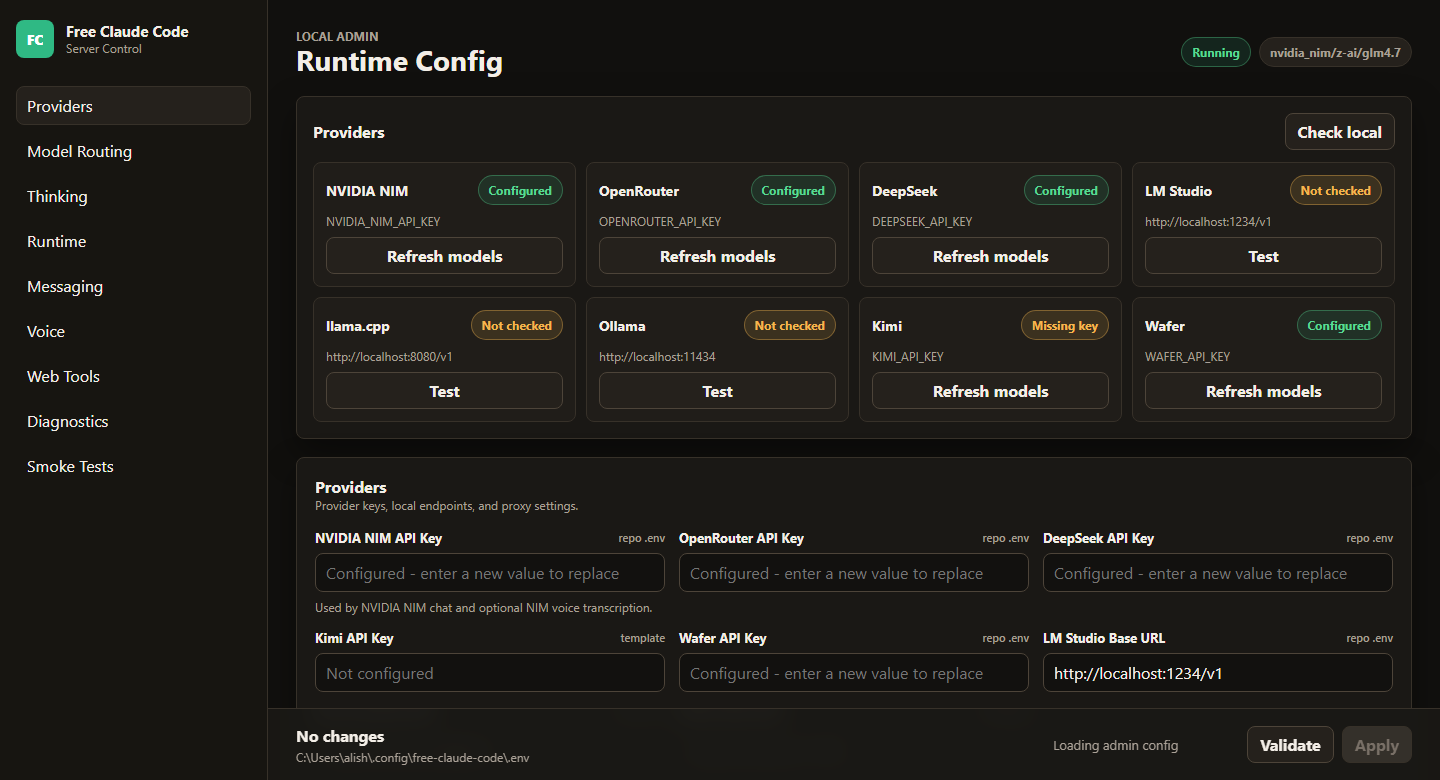
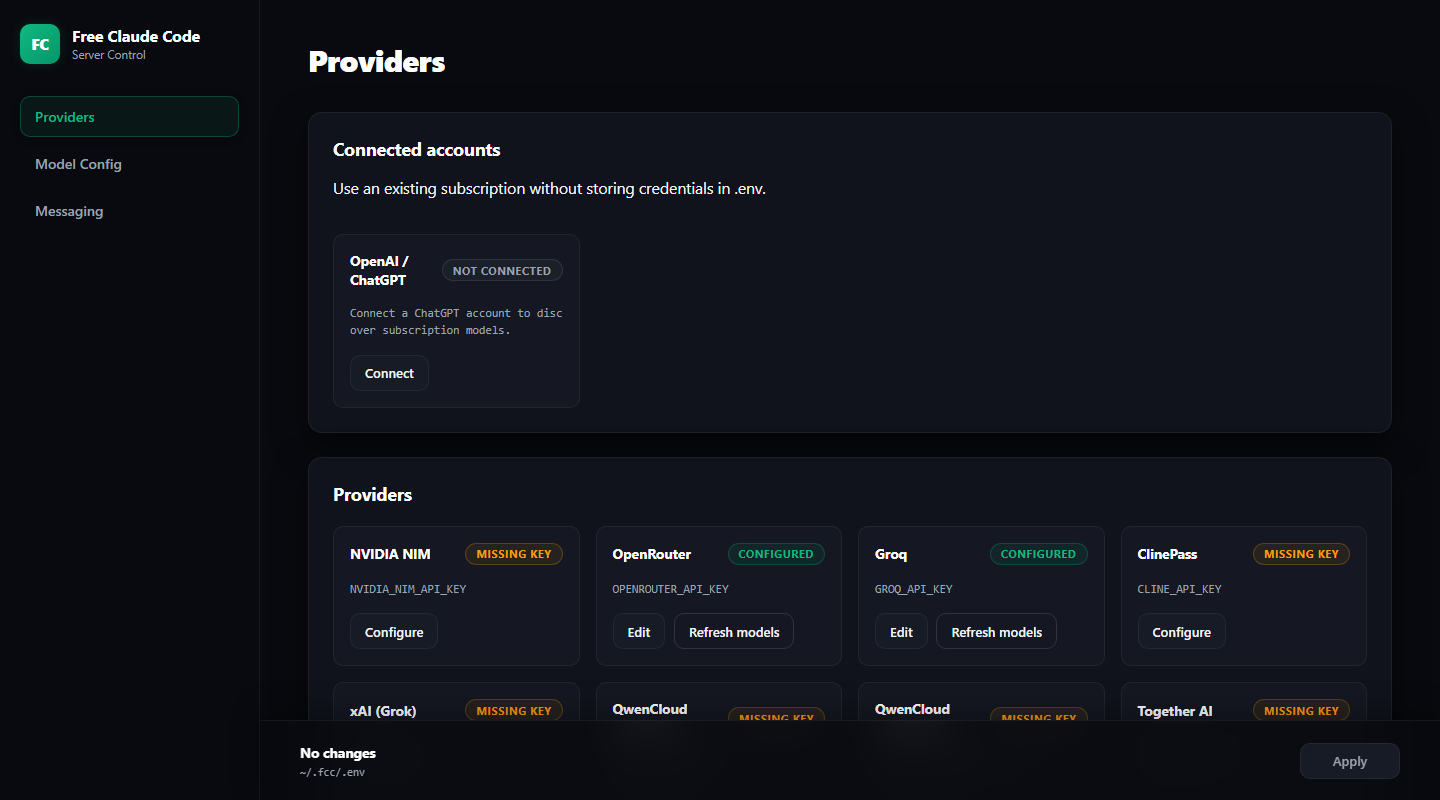
Make Apply the single Admin configuration action (#1595)
## Problem

Admin settings exposed separate Validate and Apply actions even though
Apply independently validates the prospective configuration. The extra
step added ceremony and an unused preview request.

## Changes

- Make Apply the sole configuration action while preserving
validate-before-write behavior and existing footer errors.
- Remove the unused validation route, client request, and persistence
wrapper.
- Move validation coverage onto the real Apply path and add a rendered
Playwright regression for invalid edits.
- Update user and architecture documentation and bump the patch version
to 5.15.6.

<!-- greptile_comment -->

<details open><summary><h3>Greptile Summary</h3></summary>

The Admin configuration screen now uses Apply as its single action while
retaining validation before configuration is saved. The rendered
workflow confirms that invalid edits remain visible for correction and
do not overwrite the managed configuration.
</details>

<h3>Confidence Score: 5/5</h3>

Safe to merge based on the exercised Admin Apply workflow.

No blocking failure remains. A rendered browser check confirmed that an
invalid timeout is rejected, preserves the entered value and unsaved
state, and leaves the managed configuration unchanged.

<details><summary><h3><a href="https://www.greptile.com/trex"><img
alt="T-Rex"
src="https://greptile-static-assets.s3.amazonaws.com/trex/trex_green.svg"
height="20" align="absmiddle"></a> T-Rex Logs</h3></summary>

**What T-Rex did**
[…]

diff --git a/src/free_claude_code/api/admin_static/admin.js b/src/free_claude_code/api/admin_static/admin.js
@@ -93,7 +93,6 @@ async function load() {
   byId("configPath").textContent = config.paths.managed;
   await refreshConnectedAccounts();
   await hydrateModelOptions();
-  await validate(false);
   await refreshLocalStatus();
   updateDirtyState();
   showMessage("");
@@ -1022,32 +1021,13 @@ function updateDirtyState() {
   byId("applyButton").disabled = count === 0;
 }
 
-async function validate(showResult = true) {
-  const result = await api("/admin/api/config/validate", {
-    method: "POST",
-    body: JSON.stringify({ values: changedValues() }),
-  });
-  if (showResult) {
-    showValidationResult(result);
-  }
-  return result;
-}
-
-function showValidationResult(result) {
-  if (result.valid) {
-    showMessage("Config shape is valid", "ok");
-  } else {
-    showMessage(result.errors.join("; "), "error");
-  }
-}
-
 async function apply() {
   const result = await api("/admin/api/config/apply", {
     method: "POST",
     body: JSON.stringify({ values: changedValues() }),
   });
   if (!result.applied) {
-    showValidationResult(result);
+    showMessage(result.errors.join("; "), "error");
     return;
   }
   const restart = result.restart || {};
@@ -1195,7 +1175,6 @@ function showMessage(message, kind = "") {
   area.className = `message-area ${kind}`.trim();
 }
 
-byId("validateButton").addEventListener("click", () => validate(true));
 byId("applyButton").addEventListener("click", apply);
 document.addEventListener("pointerdown", (event) => {
   state.modelComboboxes.forEach((combobox) => {

diff --git a/src/free_claude_code/api/admin_static/index.html b/src/free_claude_code/api/admin_static/index.html
@@ -81,7 +81,6 @@
         </div>
         <div id="messageArea" class="message-area"></div>
         <div class="action-buttons">
-          <button id="validateButton" class="secondary-button" type="button">Validate</button>
           <button id="applyButton" class="primary-button" type="button" disabled>Apply</button>
         </div>
       </footer>

diff --git a/tests/api/test_admin.py b/tests/api/test_admin.py
@@ -129,11 +129,11 @@ def test_admin_http_errors_are_never_cached(
     assert response.headers["cache-control"] == "no-store"
 
 
-def test_admin_validation_errors_are_never_cached(monkeypatch, tmp_path):
+def test_admin_apply_payload_validation_errors_are_never_cached(monkeypatch, tmp_path):
     _set_home(monkeypatch, tmp_path)
 
     response = _local_client(create_test_app()).post(
-        "/admin/api/config/validate",
+        "/admin/api/config/apply",
         content="{",
         headers={"Content-Type": "application/json"},
     )
@@ -802,41 +802,43 @@ def test_admin_apply_masked_or_blank_secret_is_unchanged(
     assert "OPENROUTER_API_KEY=original-secret" in env_file.read_text(encoding="utf-8")
 
 
-def test_admin_validate_rejects_bad_model_shape(monkeypatch, tmp_path):
+def test_admin_apply_rejects_bad_model_shape(monkeypatch, tmp_path):
     _set_home(monkeypatch, tmp_path)
     _clear_process_config(monkeypatch)
     app = create_test_app()
 
     response = _local_client(app).post(
-        "/admin/api/config/validate",
+        "/admin/api/config/apply",
         json={"values": {"MODEL": "missing-provider-prefix"}},
     )
 
     assert response.status_code == 200
     body = response.json()
+    assert body["applied"] is False
     assert body["valid"] is False
     assert any("provider type" in error for error in body["errors"])
 
 
-def test_admin_validate_rejects_duplicate_model_fallbacks(monkeypatch, tmp_path):
+def test_admin_apply_rejects_duplicate_model_fallbacks(monkeypatch, tmp_path):
     _set_home(monkeypatch, tmp_path)
     _clear_process_config(monkeypatch)
     app = create_test_app()
     duplicate = "groq/vendor/model,groq/vendor/model"
 
     response = _local_client(app).post(
-        "/admin/api/config/validate",
+        "/admin/api/config/apply",
         json={"values": {"MODEL_FALLBACKS": duplicate}},
     )
 
     assert response.status_code == 200
     body = response.json()
+    assert body["applied"] is False
     assert body["valid"] is False
     assert any("duplicate" in error.lower() for error in body["errors"])
 
 
 @pytest.mark.parametrize("proxy_key", _catalog_proxy_env_keys())
-def test_admin_validate_rejects_invalid_catalog_provider_proxy(
+def test_admin_apply_rejects_invalid_catalog_provider_proxy(
     monkeypatch,
     tmp_path,
     proxy_key,
@@ -846,12 +848,13 @@ def test_admin_validate_rejects_invalid_catalog_provider_proxy(
     invalid_proxy = "not-a-proxy://user:leaked-secret@proxy.example:8080"
 
     response = _local_client(create_test_app()).post(
-        "/admin/api/config/validate",
+        "/admin/api/config/apply",
         json={"values": {proxy_key: invalid_proxy}},
     )
 
     assert response.status_code == 200
     body = response.json()
+    assert body["applied"] is False
     assert body["valid"] is False
     assert body["errors"] == [
         (
@@ -873,16 +876,17 @@ def test_admin_validate_rejects_invalid_catalog_provider_proxy(
         "  http://127.0.0.1:8080  ",
     ),
 )
-def test_admin_validate_accepts_httpx_provider_proxy(monkeypatch, tmp_path, proxy):
+def test_admin_apply_accepts_httpx_provider_proxy(monkeypatch, tmp_path, proxy):
     _set_home(monkeypatch, tmp_path)
     _clear_process_config(monkeypatch)
 
     response = _local_client(create_test_app()).post(
-        "/admin/api/config/validate",
+        "/admin/api/config/apply",
         json={"values": {"OPENAI_PROXY": proxy}},
     )
 
     assert response.status_code == 200
+    assert response.json()["applied"] is True
     assert response.json()["valid"] is True
 
 
@@ -896,17 +900,18 @@ def test_admin_validate_accepts_httpx_provider_proxy(monkeypatch, tmp_path, prox
         "http://proxy.example:notaport",
     ),
 )
-def test_admin_validate_rejects_unusable_provider_proxy(monkeypatch, tmp_path, proxy):
+def test_admin_apply_rejects_unusable_provider_proxy(monkeypatch, tmp_path, proxy):
     _set_home(monkeypatch, tmp_path)
     _clear_process_config(monkeypatch)
 
     response = _local_client(create_test_app()).post(
-        "/admin/api/config/validate",
+        "/admin/api/config/apply",
         json={"values": {"OPENAI_PROXY": proxy}},
     )
 
     assert response.status_code == 200
     body = response.json()
+    assert body["applied"] is False
     assert body["valid"] is False
     assert len(body["errors"]) == 1
     assert body["errors"][0].startswith("OPENAI_PROXY: must be a proxy URL")
@@ -983,7 +988,7 @@ def test_admin_apply_validates_retained_proxy_and_allows_removal(
 
 
 @pytest.mark.parametrize("submitted", (MASKED_SECRET, "", "   "))
-def test_admin_validate_preserves_valid_stored_proxy_secret(
+def test_admin_apply_preserves_valid_stored_proxy_secret(
     monkeypatch,
     tmp_path,
     submitted,
@@ -998,12 +1003,13 @@ def test_admin_validate_preserves_valid_stored_proxy_secret(
     )
 
     response = _local_client(create_test_app()).post(
-        "/admin/api/config/validate",
+        "/admin/api/config/apply",
         json={"values": {"OPENAI_PROXY": submitted}},
     )
 
     assert response.status_code == 200
     body = response.json()
+    assert body["applied"] is True
     assert body["valid"] is True
     assert "OPENAI_PROXY=********" in body["env_preview"]
     assert "password" not in response.text

diff --git a/e2e/test_admin_apply.py b/e2e/test_admin_apply.py
@@ -1,0 +1,41 @@
+"""Rendered one-step Admin configuration workflow regressions."""
+
+from playwright.sync_api import Page, expect
+
+
+def test_apply_is_the_only_config_action_and_retains_invalid_edits(
+    page: Page,
+    admin_base_url: str,
+) -> None:
+    config_mutations: list[tuple[str, str]] = []
+
+    def record_config_mutation(method: str, url: str) -> None:
+        if "/admin/api/config/" in url:
+            config_mutations.append((method, url.rsplit("/", maxsplit=1)[-1]))
+
+    page.on(
+        "request",
+        lambda request: record_config_mutation(request.method, request.url),
+    )
+    page.emulate_media(reduced_motion="reduce")
+    page.goto(f"{admin_base_url}/admin")
+    expect(page.locator("#messageArea")).to_have_text("")
+
+    expect(page.get_by_role("button", name="Validate", exact=True)).to_have_count(0)
+    apply_button = page.get_by_role("button", name="Apply", exact=True)
+    expect(apply_button).to_be_disabled()
+
+    runtime_section = page.locator("#section-runtime")
+    runtime_section.get_by_role("button", name="Show advanced", exact=True).click()
+    timeout_input = runtime_section.locator("#field-PROVIDER_PROGRESS_TIMEOUT")
+    timeout_input.fill("0")
+    expect(page.locator("#dirtyState")).to_have_text("1 unsaved change")
+    expect(apply_button).to_be_enabled()
+
+    apply_button.click()
+
+    expect(page.locator("#messageArea")).to_contain_text("PROVIDER_PROGRESS_TIMEOUT")
+    expect(timeout_input).to_have_value("0")
+    expect(page.locator("#dirtyState")).to_have_text("1 unsaved change")
+    expect(apply_button).to_be_enabled()
+    assert config_mutations == [("POST", "apply")]

diff --git a/src/free_claude_code/api/admin_routes.py b/src/free_claude_code/api/admin_routes.py
@@ -16,7 +16,6 @@ from free_claude_code.application.connected_accounts import (
 )
 from free_claude_code.application.model_metadata import ProviderModelRefreshResult
 from free_claude_code.config.admin.manifest import FIELD_BY_KEY
-from free_claude_code.config.admin.persistence import validate_updates
 from free_claude_code.config.admin.values import load_config_response, load_value_state
 from free_claude_code.config.model_refs import configured_chat_model_refs
 from free_claude_code.config.provider_catalog import (
@@ -109,12 +108,6 @@ async def admin_asset(filename: str, request: Request):
 async def get_admin_config(request: Request):
     require_loopback_admin(request)
     return load_config_response()
-
-
-@router.post("/admin/api/config/validate")
-async def validate_admin_config(payload: AdminConfigPayload, request: Request):
-    require_loopback_admin(request)
-    return validate_updates(_filtered_values(payload.values))
 
 
 @router.post("/admin/api/config/apply")

diff --git a/src/free_claude_code/config/admin/persistence.py b/src/free_claude_code/config/admin/persistence.py
@@ -105,12 +105,6 @@ def target_values_with_updates(
     return values
 
 
-def validate_updates(updates: Mapping[str, ConfigInputValue]) -> JsonObject:
-    """Validate partial Admin updates and return a masked sparse preview."""
-
-    return prepare_admin_update(updates).validation_response()
-
-
 def changed_pending_fields(
     updates: Mapping[str, ConfigInputValue],
     *,

diff --git a/README.md b/README.md
@@ -90,7 +90,7 @@ terminal open.
 2. Open the Admin UI URL from the server log.
 3. Paste the key into `NVIDIA_NIM_API_KEY`.
 4. Leave `MODEL` on the default `nvidia_nim/nvidia/nemotron-3-super-120b-a12b`, or search the model dropdown and select another model.
-5. Click **Validate**, then **Apply**.
+5. Click **Apply**.
 
 To protect the local proxy with a bearer token, enable **Proxy Authentication**
 in Admin.
@@ -178,7 +178,7 @@ fcc-aider
    **Providers → Connected accounts** instead.
 3. Search the `MODEL` dropdown and select a model. If the provider cannot list
    models, enter `<provider-id>/<exact-provider-model-id>` manually.
-4. Click **Validate**, then **Apply**.
+4. Click **Apply**.
 
 Optional: add an ordered **Fallback Models** list under **Model Config**. It
 applies to every connected client. A failed request may reach and consume usage
@@ -479,7 +479,7 @@ Restart Claude Code or the IDE after saving the file.
 
 ## Optional Integrations
 
-Configure integrations from **Admin UI → Messaging**, then click **Validate** and **Apply**.
+Configure integrations from **Admin UI → Messaging**, then click **Apply**.
 
 <details>
 <summary><strong>Discord bot</strong></summary>

diff --git a/ARCHITECTURE.md b/ARCHITECTURE.md
@@ -411,9 +411,9 @@ Admin requests are partial updates: omitted keys stay unchanged, `null` removes
 an optional assignment, and required/defaulted values reject `null` or blank
 input. False and zero remain real values. Masked or blank secret submissions
 mean unchanged; an explicit remove action is available only for optional
-secrets. Preview and Apply validate the same prospective Settings snapshot, and
-Apply atomically writes only configured values plus preserved unknown managed
-assignments. Process-owned fields are visible but locked.
+secrets. Apply validates the prospective Settings snapshot before atomically
+writing only configured values plus preserved unknown managed assignments.
+Process-owned fields are visible but locked.
 
 [config/admin/status.py](src/free_claude_code/config/admin/status.py) owns
 provider configuration readiness and exposes ordered Admin field keys for each
